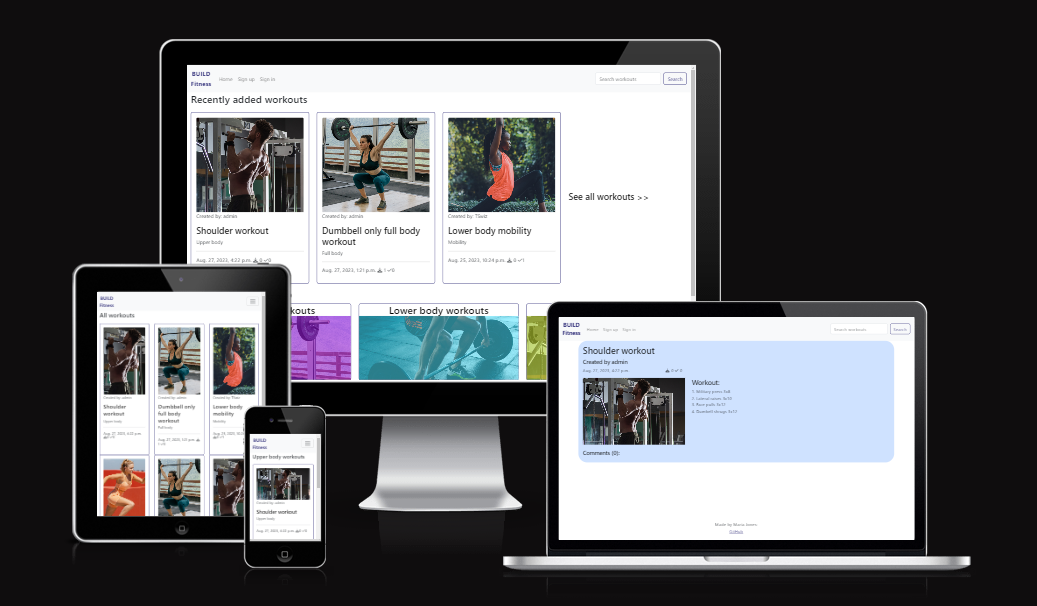
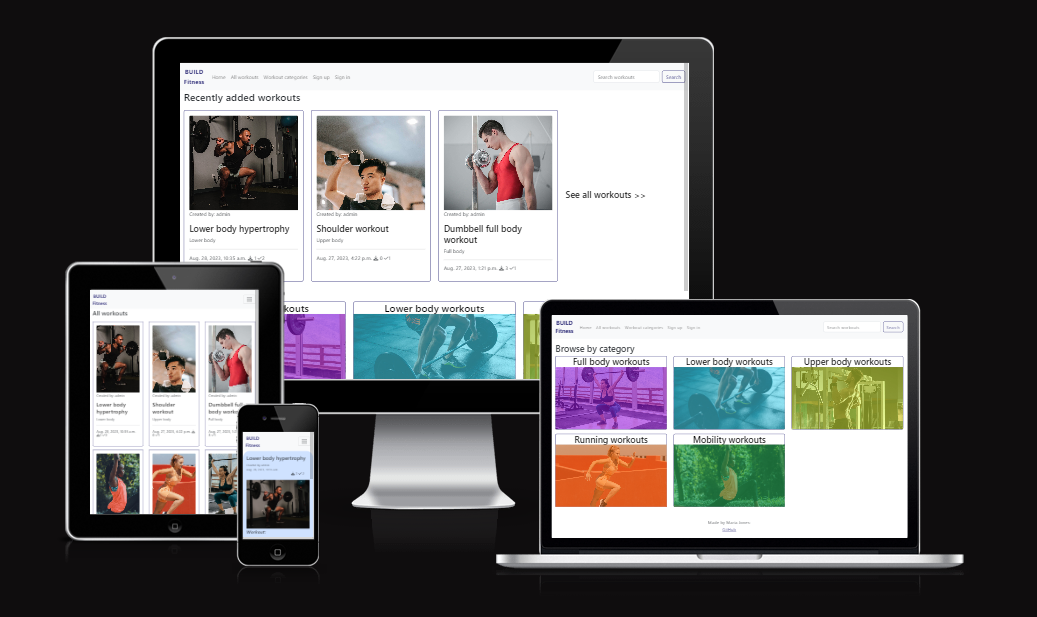
Final changes before final deployment

diff --git a/build/settings.py b/build/settings.py
@@ -28,7 +28,7 @@ TEMPLATES_DIR = os.path.join(BASE_DIR, 'templates')
 SECRET_KEY = os.environ.get('SECRET_KEY')
 
 # SECURITY WARNING: don't run with debug turned on in production!
-DEBUG = os.environ.get('DEBUG')
+DEBUG = False
 
 X_FRAME_OPTIONS = 'SAMEORIGIN'
 

diff --git a/README.md b/README.md
@@ -20,15 +20,20 @@ Final website: [https://build-fitness-66f794a76bbb.herokuapp.com/](https://build
     - [Favicon and title](#favicon-and-title)
     - [Navigation](#navigation)
     - [Create, edit and delete workouts](#create-edit-and-delete-workouts)
+    - [Category colours](#category-colours)
+    - [Workout images](#workout-images)
     - [Custom 403 and 404 pages](#custom-403-and-404-pages)
 - [Technology](#technology)
     - [Languages used](#languages-used)
     - [Frameworks, libraries and programs used](#frameworks-libraries-and-programs-used)
 - [Testing](#testing)
-    - [Testing user stories](#testing-user-stories)
+    - [User story and feature testing](#user-story-and-feature-testing)
     - [Automated testing](#automated-testing)
     - [Validator testing](#validator-testing)
+- [Deployment](#deployment)
 - [Credits](#credits)
+    - [Media](#media)
+    - [Coding Resources](#coding-resources)
 
 ## Design and planning
 
@@ -51,8 +56,8 @@ The end goal is to gain as much user traffic as possible, and have many people r
 
 #### As an authenitacted user...
 1. Save workouts: As an authenticated user I can mark workouts I like so that I can come back to them later.
-2. Complete workouts: As a user I can mark off workouts I have completed so that I can see a record of what I have done.
-3. Comment on workouts: As a user I can comment on workouts and see those left by others so that I can leave my feedback and interact with other users.
+2. Complete workouts: As an authenticated user I can mark off workouts I have completed so that I can see a record of what I have done.
+3. Comment on workouts: As an authenticated user I can comment on workouts and see those left by others so that I can leave my feedback and interact with other users.
 
 #### As an admin user...
 1. View saves: As an admin I can see how many people have saved a workout so that I can see what is popular.
@@ -65,6 +70,8 @@ The end goal is to gain as much user traffic as possible, and have many people r
 User stories were added and tracked using [GitHub projects](https://github.com/users/mariacjones1/projects/2/views/1).
 
 ### Flowcharts
+
+Flowcharts were created as part of the initial planning stage in order to map out some of the processes that would be required.
 
 1. Find a workout
 ![Find workout](/documentation/planning/flowchart_find-workout.png)
@@ -87,6 +94,7 @@ Changes made from plan to final project:
 ### Models diagram
 
 Created using [dbdiagram.io](https://dbdiagram.io/)
+
 ![Models diagram](/documentation/planning/models-diagram.png)
 
 ### Wireframes
@@ -142,7 +150,7 @@ Changes made from design to final project:
 ![Edit workout (screenshot)](/documentation/screenshots/edit_workout.png)
 
 Changes made from design to final project:
-- All fields span the entire section (automatically formatted using crispy forms).
+- All fields span the width of the section (automatically formatted using crispy forms).
 - Additional information field not included - potential future feature.
 - Edit workout uses a similar template, but current workout information is pre-populated and the user has the option to delete exercises.
 
@@ -158,7 +166,7 @@ Changes made from design to final project:
 ### Design choices
 
 - Colours:
-    - The main colours used are white, black and blue (dark blue for buttons, logo and links, light blue for container backgrounds). Other colours are used for workout category overlays to make them more visually different and interesting.
+    - The main colours used are white, black and blue (dark blue for buttons, logo and links, light blue for container backgrounds). Other colours are used for workout category overlays to make them visually different and more interesting.
 - Fonts:
     - Default Bootstrap fonts are used as they work well and there was no need to change them.
 - Images:
@@ -205,6 +213,17 @@ Changes made from design to final project:
 ![Edit workout](/documentation/screenshots/edit_workout.png)
 ![Delete workout](/documentation/screenshots/delete_workout.png)
 
+### Category colours
+- Each category is assigned a colour in the Django admin panel using Colorfield. This is used for the overlay on image categories and makes sure the category cards are visually different from the workout cards even when the same images might have been used.
+
+![Category admin](/documentation/screenshots/category_admin.png)
+![Category colours](/documentation/screenshots/browse_by_category.png)
+
+### Workout images
+- Each workout is created with an image so that the workout cards and detail pages are more interesting and aesthetically pleasing. If a user doesn't upload an image for a workout, the default image for the workout category is used as a placeholder. The image can be updated by admin users along with the other workout details.
+
+![Workout cards](/documentation/screenshots/browse_workouts.png)
+
 ### Custom 403 and 404 pages
 - Users who are directed to either 403 (access forbidden) or 404 (page not found) pages will see custom pages instead of default Django pages. Although basic, this is less jarring as it uses the same formatting as the rest of the site, and both feature a link to the homepage so that the user doesn't have to rely on browser buttons to get back.
 
@@ -249,16 +268,16 @@ Changes made from design to final project:
 
 ## Testing
 
-### Testing user stories
+### User story and feature testing
 
 1. View workouts: As a user I can view a selection of workouts so that I can choose one to complete.
     - Upon entering the site, users can see the three most recent workouts, as well as the options to see all workouts or to select a workout category by scrolling down.
-    - Test: enter the site
+    - Test: Enter the site.
     ![Homepage](/documentation/screenshots/homepage_not_signed_in.png)
 
 2. Filter workouts: As a user I can filter workouts so that I can easily find one that I want to do.
     - Users are able to use the search bar to search for a workout whose name contains the search term.
-    - Test: search term 'lower' entered into search bar
+    - Test: Search term 'lower' entered into search bar. All workouts with the word 'lower' in the name are displayed.
     ![Search results](/documentation/screenshots/search_results_lower.png)
 
 3. Save workouts: As a user I can mark workouts I like so that I can come back to them later.
@@ -274,7 +293,7 @@ Changes made from design to final project:
     ![Completed workouts](/documentation/screenshots/completed_workouts.png)
 
 5. Comment on workouts: As a user I can comment on workouts so that I can leave my feedback.
-    - Users who have signed in are able to comment on workout from the workout detail page. Comments must be approved by admin before they appear for other users to see. Users who have not signed in are still able to see other users' comments.
+    - Users who have signed in are able to comment on a workout from the workout detail page. Comments must be approved by admin before they appear for other users to see. Users who have not signed in are still able to see other users' comments.
     - Test: Sign in as any user, select a workout and submit a comment. Sign in as admin, go to the Django admin panel and approve the comment. Go back to the site, select the same workout, and see the comment.
     ![Submit a comment](/documentation/screenshots/submit_comment.png)
     ![Comment awaiting approval](/documentation/screenshots/comment_awaiting_approval.png)
@@ -291,6 +310,7 @@ Changes made from design to final project:
 7. Create account: As a user I can create an account so that I can come back to saved workouts and comment on workouts.
     - Users can either sign up or sign in using the respective navbar links. Authenticated users have access to additional website features, such as saving, completing and commenting on workouts.
     - Test: Sign up as a new user. Sign out and sign back in with new credentials. See the additional options in the navbar.
+
     ![New user sign-up](/documentation/screenshots/sign_up_new.png)
     ![New user sign-in](/documentation/screenshots/sign_in_new.png)
     ![Autheticated user navbar](/documentation/screenshots/navbar_authenticated_user.png)
@@ -298,6 +318,7 @@ Changes made from design to final project:
 8. View saves: As an admin I can see how many people have saved a workout so that I can see what is popular.
     - The number of saves and completes is visible on all workouts, both the cards on browsing pages and on the workout detail pages themselves. All users are able to see these numbers.
     - Test: Sign in as any user and check the saved and completed icons next to any workout.
+
     ![Saves and completes](/documentation/screenshots/saves_and_completes.png)
 
 
@@ -353,9 +374,9 @@ Changes made from design to final project:
 
 #### Python
 Automated testing was done using the following files:
-[test_forms.py](/planner/test_forms.py)
-[test_views.py](/planner/test_views.py)
-[test_models.py](/planner/test_models.py)
+- [test_forms.py](/planner/test_forms.py)
+- [test_views.py](/planner/test_views.py)
+- [test_models.py](/planner/test_models.py)
 
 In order to run these tests, the DATABASE_URL must be commented out in [env.py](/env.py).
 
@@ -407,7 +428,7 @@ N.B. Django variables and tags removed before running as these were flagging as 
 | [test_forms.py](/planner/test_forms.py) | 19, 30, 41: E231 missing whitespace after ','<br>44, 48, 52, 56: E501 line too long<br>-> All issues fixed and file re-run, all clear, no errors found. |
 | [test_models.py](/planner/test_models.py) | All clear, no errors found. |
 | [test_views.py](/planner/test_views.py) | All clear, no errors found. |
-| [settings.py](/build/settings.py) | 126, 129, 132, 135, 158: E501 line too long -> Ignored as this code was generated automatically by Django, and adding line breaks with '\' causes errors. |
+| [settings.py](/build/settings.py) | 126, 129, 132, 135, 158: E501 line too long -> Ignored as this code was generated automatically by Django, and adding line breaks with '\\' causes errors. |
 | [build urls.py](/build/urls.py) | All clear, no errors found. |
 
 ### Browser tests
@@ -433,11 +454,141 @@ N.B. Django variables and tags removed before running as these were flagging as 
 | Surface Pro 7 | ✓ |
 | Nest Hub | ✓ |
 
+### Dev Tools Lighthouse tests
+
+path: ""
+
+| Category | Score |
+| --- | --- |
+| Performance | 85 |
+| Accessability | 100 |
+| Best Practices | 83 |
+| SEO | 100 |
+
+path: "categories/"
+
+| Category | Score |
+| --- | --- |
+| Performance | 98 |
+| Accessability | 100 |
+| Best Practices | 83 |
+| SEO | 100 |
+
+path: "workouts/"
+
+| Category | Score |
+| --- | --- |
+| Performance | 95 |
+| Accessability | 100 |
+| Best Practices | 83 |
+| SEO | 100 |
+
+path: "workouts/full-body/"
+
+| Category | Score |
+| --- | --- |
+| Performance | 98 |
+| Accessability | 100 |
+| Best Practices | 83 |
+| SEO | 100 |
+
+path: "saved_workouts/"
+
+| Category | Score |
+| --- | --- |
+| Performance | 95 |
+| Accessability | 100 |
+| Best Practices | 83 |
+| SEO | 100 |
+
+path: "completed_workouts/"
+
+| Category | Score |
+| --- | --- |
+| Performance | 88 |
+| Accessability | 100 |
+| Best Practices | 83 |
+| SEO | 100 |
+
+path: "search_workouts/?q=lower"
+
+| Category | Score |
+| --- | --- |
+| Performance | 95 |
+| Accessability | 100 |
+| Best Practices | 83 |
+| SEO | 100 |
+
+path: "new_workout/"
+
+| Category | Score |
+| --- | --- |
+| Performance | 99 |
+| Accessability | 100 |
+| Best Practices | 83 |
+| SEO | 100 |
+
+path: "lower-body-hypertrophy/"
+
+| Category | Score |
+| --- | --- |
+| Performance | 97 |
+| Accessability | 100 |
+| Best Practices | 83 |
+| SEO | 100 |
+
+path: "edit_workout/lower-body-hypertrophy"
+
+| Category | Score |
+| --- | --- |
+| Performance | 98 |
+| Accessability | 100 |
+| Best Practices | 83 |
+| SEO | 100 |
+
+path: "delete_workout/lower-body-hypertrophy"
+
+| Category | Score |
+| --- | --- |
+| Performance | 98 |
+| Accessability | 100 |
+| Best Practices | 83 |
+| SEO | 100 |
+
+N.B.: performance is affected by the images on each page, which means each user might see different results. The above results are the most recent generated with the admin user logged in, with the current selection of workouts on each page as of 28/8/23.
+
+## Deployment
+
+- The project was first deployed are the start using Heroku using the following steps:
+    - Create a new app on Heroku and select your region (for me it is Europe)
+    - Set config vars in the Settings tab:
+        - CLOUDINARY_URL
+        - DATABASE_URL
+        - PORT
+        - SECRET_KEY
+    - Go to the deploy tab, select GitHub and search for the repository (must connect to GitHub).
+    - Click deploy. Once the build logs have run, you are able to click 'View' to open the app.
+
 ## Credits
-Extending user model: https://simpleisbetterthancomplex.com/tutorial/2016/07/22/how-to-extend-django-user-model.html#onetoone
-Multiselect: https://pypi.org/project/django-multiselectfield/
-Register models: https://codinggear.blog/how-to-register-model-in-django-admin/?expand_article=1&expand_article=1
-Multi-model view: https://www.youtube.com/watch?v=tP99aNINOGI&ab_channel=HarithaComputers%26Technology
-Dynamic form: https://www.youtube.com/watch?v=s3T-w2jhDHE&ab_channel=CodingEntrepreneurs
-Search: https://learndjango.com/tutorials/django-search-tutorial
-Permissions: https://www.honeybadger.io/blog/django-permissions/
+
+### Media
+
+- All images were sourced from [Pexels](https://www.pexels.com/)
+- Favicon icon was found on [favicon.io](https://favicon.io/)
+- Saved and completed icons were found on [Font Awesome](https://fontawesome.com/)
+
+### Coding resources
+
+#### General
+- [Django documentation](https://www.djangoproject.com/)
+- [Stack overflow](https://stackoverflow.com/)
+
+#### Specific queries
+- How to display multiple models in a single view: [Haritha Computers & Technology, YouTube](https://www.youtube.com/watch?v=tP99aNINOGI&ab_channel=HarithaComputers%26Technology)
+- Dynamic forms: [Coding Entrepreneurs, YouTube](https://www.youtube.com/watch?v=s3T-w2jhDHE&ab_channel=CodingEntrepreneurs)
+- Implementing the search bar: [LearnDjango](https://learndjango.com/tutorials/django-search-tutorial)
+- Managing user permissions: [Honeybadger](https://www.honeybadger.io/blog/django-permissions/)
+- Saving formset items and getting saved workouts: Tutor support
+
+#### Mentor
+Can Sucullu provided advice, suggestions and additional resources throughout the project.
